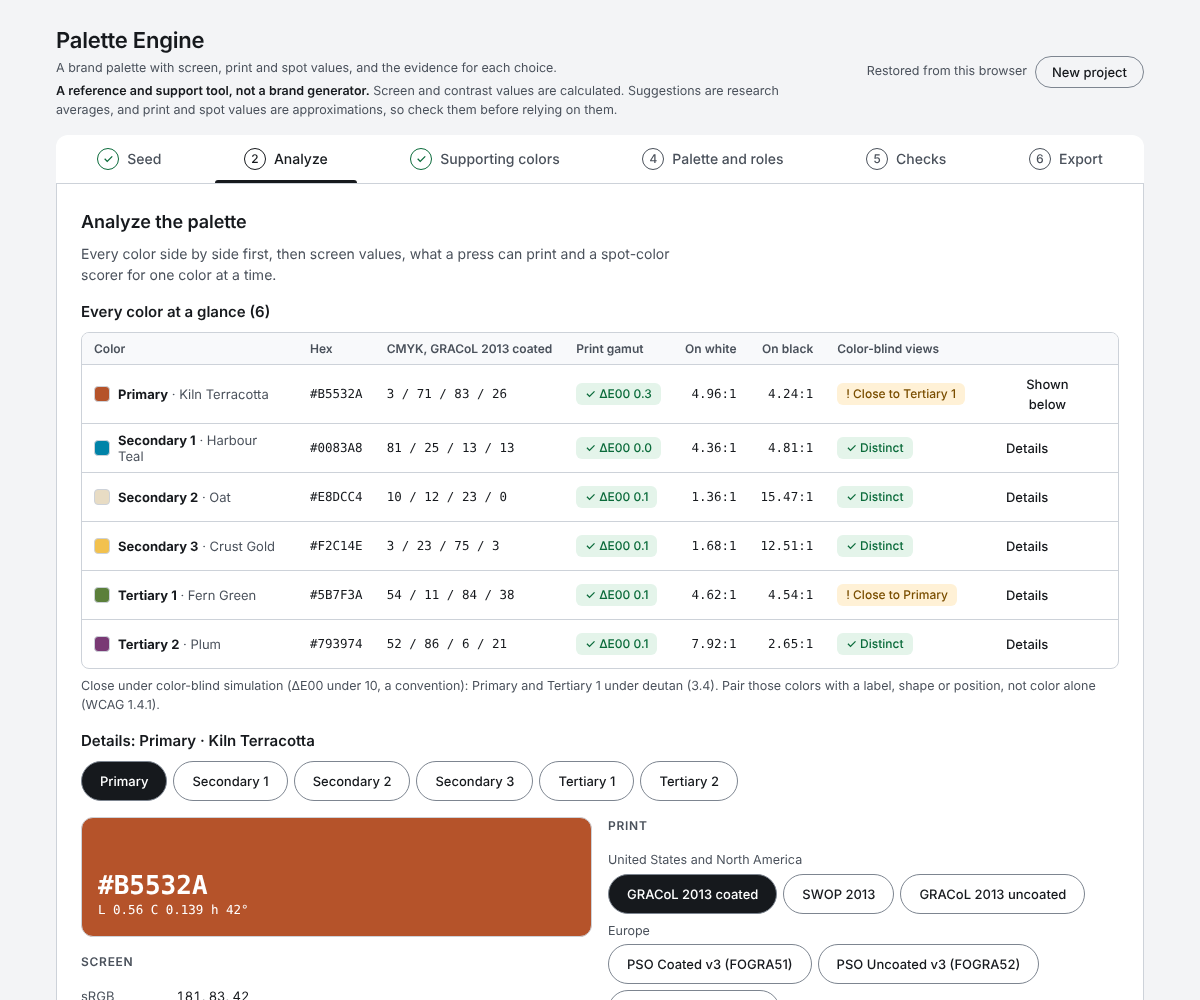
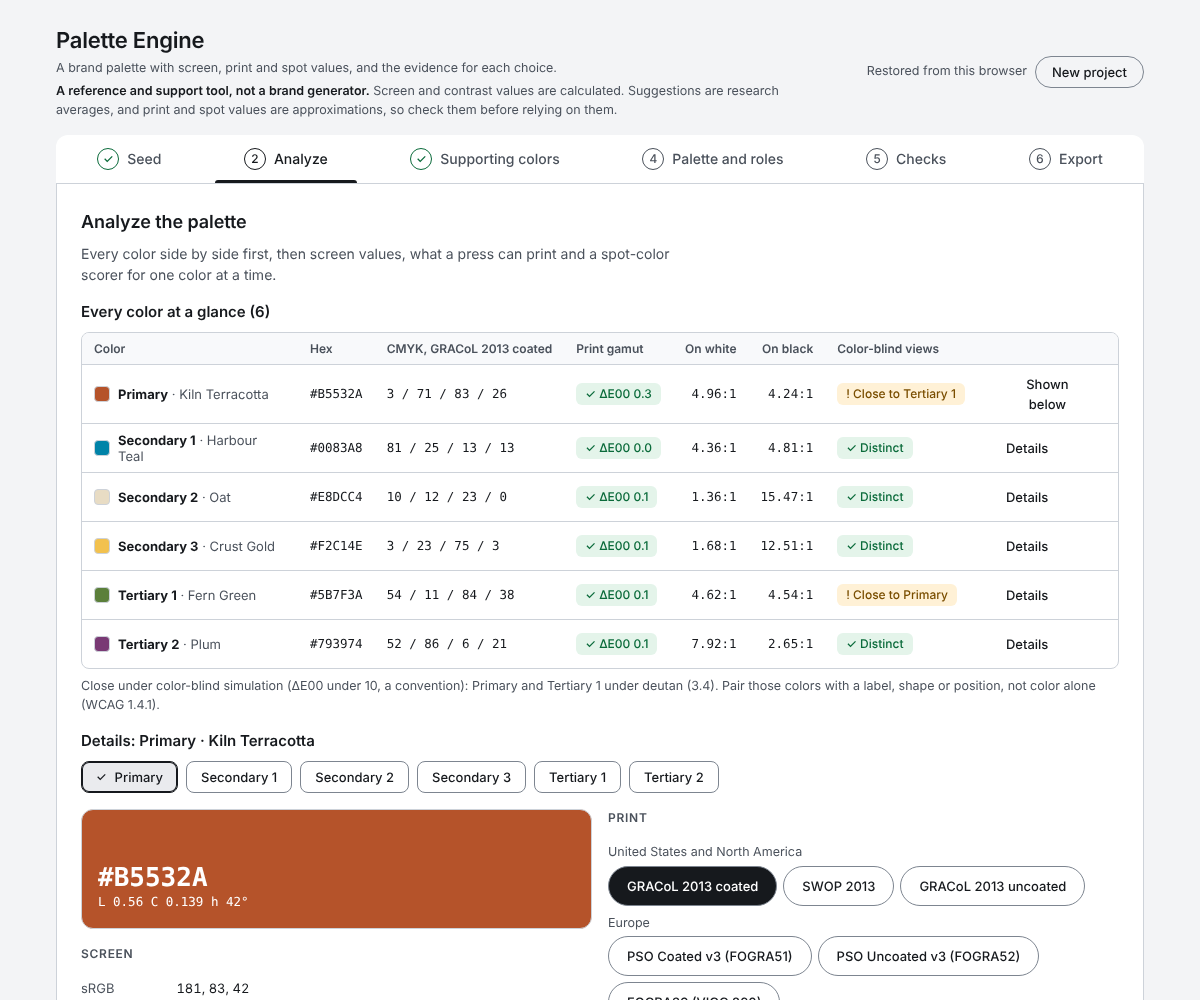
Choice controls follow m3.material.io: chips past five, radio lists for single choices (pe-update63)
- Analyze: the color switcher (up to seven colors) is a single-select
  chip set; Material segmented buttons hold 2 to 5 options.
- Supporting colors: Lens and Send picks to are stacked radio lists, so
  Show only is the step's one chip set (Material: one chip-set behavior
  per page). Lens has six options, a chosen deviation from "five or fewer".
- Focus returns to the chosen radio or chip after the page redraws.
- C47 closed after the live check; C48 to C50 opened.
- Tests: end to end 124 checks; engine and export-UI suites pass.

Claude-Session: https://claude.ai/code/session_01731oeFpYHKAPBZQTLZHEbz

Changed region(s): [[0.0617, 0.744, 0.8942, 1.0]]

diff --git a/web/app.js b/web/app.js
@@ -120,8 +120,21 @@ function fixLine(acc) {
 function segmented(options, current, onPick, label, cls) {
   return h('div', { class: cls ? `seg ${cls}` : 'seg', role: 'group', 'aria-label': label }, options.map((o) => h('button', { type: 'button', 'aria-pressed': String(o.id === current), onclick: () => onPick(o.id) }, o.label)));
 }
-function chip(label, pressed, onclick, extra) {
-  return h('button', { type: 'button', class: 'chip', 'aria-pressed': String(!!pressed), onclick }, h('span', { class: 'tick', 'aria-hidden': 'true' }, '✓'), label, extra);
+function chip(label, pressed, onclick, extra, id) {
+  return h('button', { type: 'button', class: 'chip', id, 'aria-pressed': String(!!pressed), onclick }, h('span', { class: 'tick', 'aria-hidden': 'true' }, '✓'), label, extra);
+}
+/**
+ * A stacked radio list (Material 3 radio buttons: listed vertically, one option always selected, the label selects too).
+ * Used where one choice is made from a visible set, so that each page's chip sets stay all multi-select (Material 3 chips:
+ * do not mix single- and multi-select chip sets on one page). The page re-renders on change, so focus is put back on the
+ * chosen option and arrow keys keep moving through the group.
+ */
+function radioList(name, legend, options, current, onPick, note) {
+  return h('fieldset', { class: 'radios' }, h('legend', null, legend),
+    options.map((o) => h('label', { class: 'radio', for: `${name}-${o.id}` },
+      h('input', { type: 'radio', id: `${name}-${o.id}`, name, value: o.id, checked: o.id === current, onchange: () => { onPick(o.id); const el = document.getElementById(`${name}-${o.id}`); if (el) el.focus(); } }),
+      h('span', { class: 'rl' }, o.label, o.extra ? h('span', { class: 'small muted' }, ` ${o.extra}`) : null))),
+    note || null);
 }
 function toggleSwitch(label, on, onchange, disabled) {
   return h('button', { type: 'button', class: 'switch', role: 'switch', 'aria-checked': String(!!on), disabled: !!disabled, onclick: () => onchange(!on) }, h('span', { class: 'track' }, h('span', { class: 'handle' })), label);
@@ -374,7 +387,8 @@ function renderAnalyze() {
       h('p', { class: 'lead' }, many ? 'Every color side by side first, then screen values, what a press can print and a spot-color scorer for one color at a time.' : 'Screen values, what a press can print, and a scorer for spot colors you already have values for.')),
     many && analyzeOverview(list),
     many && h('div', { class: 'stack-s' }, h('h3', { id: 'detail-title', tabindex: '-1' }, `Details: ${cur.label}${cur.rec.name ? ` · ${cur.rec.name}` : ''}`),
-      segmented(list.map((x) => ({ id: x.id, label: x.label })), cur.id, (id) => { S.focus = id; commit(); }, 'Color to analyze', 'seg-wrap')),
+      // Up to seven colors: Material 3 segmented buttons hold 2 to 5 options, so this is a single-select chip set (the only chip set on this step).
+      h('div', { class: 'chips', role: 'group', 'aria-label': 'Color to analyze' }, list.map((x) => chip(x.label, x.id === cur.id, () => { S.focus = x.id; commit(); const b = $(`#focus-${x.id}`); if (b) b.focus(); }, null, `focus-${x.id}`)))),
     h('div', { class: 'grid cols-2' },
       h('div', { class: 'stack' },
         h('div', { class: 'big-sw', style: `background:${a.screen.hex};color:${inkOn(a.screen.hex)}` }, h('span', { class: 'hex' }, a.screen.hex.toUpperCase()), h('span', { class: 'mono small' }, okText(a.screen.oklch))),
@@ -481,12 +495,11 @@ function targetPicker() {
   const opts = [];
   for (const tier of PE.SUPPORT_TIERS) {
     const list = tierList(tier);
-    list.forEach((r, i) => opts.push({ tier, i, text: `${slotLabel(tier, i)} · ${r.hex.toUpperCase()}`, locked: r.locked }));
-    if (list.length < MAX_TIER) opts.push({ tier, i: list.length, text: `${slotLabel(tier, list.length)} · ${list.length ? 'new' : 'empty'}` });
+    list.forEach((r, i) => opts.push({ id: PE.slotId(tier, i), label: slotLabel(tier, i), extra: `· ${r.hex.toUpperCase()}${r.locked ? ' · locked' : ''}` }));
+    if (list.length < MAX_TIER) opts.push({ id: PE.slotId(tier, list.length), label: slotLabel(tier, list.length), extra: `· ${list.length ? 'new' : 'empty'}` });
   }
   const t = targetOf();
-  return h('div', { class: 'stack-s' }, h('h4', { id: 'target-label' }, 'Send picks to'),
-    h('div', { class: 'chips', role: 'group', 'aria-labelledby': 'target-label' }, opts.map((o) => chip(o.text, o.tier === t.tier && o.i === t.i, () => { setTarget(o.tier, o.i); commit(); }, o.locked ? h('span', { class: 'small muted' }, ' · locked') : null))),
+  return radioList('target', 'Send picks to', opts, t.id, (id) => { const m = /^(secondary|tertiary)([23])?$/.exec(id); setTarget(m[1], m[2] ? Number(m[2]) - 1 : 0); commit(); },
     h('p', { class: 'small muted' }, t.rec ? `A pick replaces ${t.label} (${t.rec.hex.toUpperCase()}).` : `A pick fills ${t.label}.`));
 }
 function renderSupport() {
@@ -501,13 +514,14 @@ function renderSupport() {
       h('p', { class: 'lead' }, 'Each lens proposes colors from a rule, with its evidence on the card; the evidence is weak for classical wheel geometry. Treat the lenses as a starting vocabulary.'),
       h('p', { class: 'small muted' }, `Up to ${MAX_TIER} secondary and ${MAX_TIER} tertiary colors. Secondary 1 and Tertiary 1 set Material's secondary and tertiary roles; the others become extended colors, each with its own color, on-color, container and on-container roles.`)),
     h('div', { class: 'grid cols-2' }, PE.SUPPORT_TIERS.map((tier) => tierColumn(tier))),
-    h('div', { class: 'stack-s' }, h('h4', null, 'Lens'),
-      h('div', { class: 'chips' }, lensKeys.map((k) => chip(PE.LENSES[k].name, S.lens === k, () => { S.lens = k; commit(); }, h('span', { class: 'small muted' }, `· ${PE.LENSES[k].tier === 'low confidence' ? 'low confidence' : 'supported but contested'}`)))),
+    h('div', { class: 'grid cols-2' },
+      h('div', { class: 'stack-s' },
+      radioList('lens', 'Lens', lensKeys.map((k) => ({ id: k, label: PE.LENSES[k].name, extra: `· ${PE.LENSES[k].tier === 'low confidence' ? 'low confidence' : 'supported but contested'}` })), S.lens in PE.LENSES ? S.lens : 'complementary', (k) => { S.lens = k; commit(); }),
       notice('', h('b', null, `${lens.name}: `), PE.TIER_NOTE[lens.tier], ` Hue offsets are computed on the ${PE.WHEEL}; an artist's RYB wheel or an RGB wheel gives different complements for the same color.`),
       h('div', { class: 'row' }, h('div', { style: 'width:min(100%,320px)' }, field('offsets', 'Hue offsets in degrees (editable)', (off || lens.offsets).join(', '), { compact: true, mono: true,
         onchange: (v) => { const n = v.split(/[\s,;]+/).filter(Boolean).map(Number); if (n.length && n.every((x) => Number.isFinite(x) && Math.abs(x) <= 360)) { S.offsets[S.lens] = n; } commit(); } })),
         off && h('button', { type: 'button', class: 'btn text', onclick: () => { delete S.offsets[S.lens]; commit(); } }, 'Reset offsets'))),
-    targetPicker(),
+      targetPicker()),
     filterBar(true), filteredGrid(cands, true, (c) => harmonyCard(c)));
 }
 function harmonyCard(c) {

diff --git a/web/style.css b/web/style.css
@@ -218,3 +218,14 @@ fieldset.pal-tier legend { padding: 0 6px; font: 600 14px/20px var(--font); colo
 td .pill { white-space: nowrap; }
 .role .m .mono { overflow-wrap: anywhere; }
 .cvd-list { margin: 0; padding-left: 18px; display: grid; gap: 4px; }
+
+/* Stacked radio lists (Material 3 radio button specs: 20dp icon, 40dp state layer, 48dp target; listed vertically) */
+fieldset.radios { border: 0; margin: 0; padding: 0; min-width: 0; display: grid; gap: 0; align-content: start; }
+fieldset.radios legend { padding: 0 0 4px; font-size: 12px; letter-spacing: 0.06em; text-transform: uppercase; color: var(--ink-2); font-weight: 600; }
+.radio { position: relative; display: flex; align-items: center; gap: 12px; min-height: 48px; padding: 0 8px 0 4px; border-radius: 8px; cursor: pointer; }
+.radio input { flex: none; width: 20px; height: 20px; margin: 0 10px; accent-color: var(--ink); cursor: pointer; }
+.radio::before { content: ""; position: absolute; left: 4px; top: 50%; width: 40px; height: 40px; margin-top: -20px; border-radius: 50%; background: var(--ink); opacity: 0; pointer-events: none; }
+.radio:hover::before { opacity: .08; } .radio:active::before { opacity: .12; }
+.radio input:focus-visible { outline: 3px solid var(--focus); outline-offset: 3px; }
+.radio:has(input:focus-visible)::before { opacity: .10; }
+.radio .rl { line-height: 20px; }

diff --git a/TO-CONFIRM.md b/TO-CONFIRM.md
@@ -1,9 +1,9 @@
-> Repo copy as of pe-update62 (2026-11-17: up to three secondary and three tertiary colors, D44; sRGB tolerance fix, D45). The repo is authoritative; this copy goes stale until refreshed after the next update.
+> Repo copy as of pe-update63 (2026-11-17: choice controls checked against m3.material.io; pe-update62, the extended palette, is committed as 0ea220f). The repo is authoritative; this copy goes stale until refreshed after the next update.
 
 # To confirm or fix
 
 The single list of things in this project that are **unverified, unresolved or known to be wrong**. If a claim elsewhere in the repo is not backed up,
-it belongs here. Last updated 2026-11-17 (pe-update62: extended palette, D44 and D45; C45 and C46 closed, C47 opened).
+it belongs here. Last updated 2026-11-17 (pe-update63: C47 closed after Kwade's live check and the m3.material.io reading; C48 to C50 opened).
 
 Types: **Confirm** (a fact or behavior to check), **Fix** (something known to be wrong or missing), **Decide** (a choice only the maintainer can make).
 Status: **Open**, **Deferred** (blocked on something the maintainer does not have yet), or **Done** (kept for the record).
@@ -26,12 +26,15 @@ Status: **Open**, **Deferred** (blocked on something the maintainer does not hav
 | C20 | Confirm | The heading key (H) did not move to headings in NVDA while the landmark key (D) did | Open | Session report: H did not work on the artifact; on pages without headings NVDA gave its "no next heading" message, so the key itself works. Code check: the header has an h1 and every step has an h2 title with h3 and h4 sections, so headings exist. Cause not known (NVDA mode, how the artifact is framed, or the page). To close: repeat on the live page with the Speech Viewer on, open NVDA+F7 (Elements list, Headings), and note the step and the mode. If the list is empty it is a page problem; if not, a test-setup one. Re-test script, with the NVDA mode check and the Elements list: `docs/screen-reader-session.md` (2026-10-03). First thing to rule out: NVDA in focus mode, where H is not a navigation key (low confidence; not observed) |
 | C21 | Decide | Reading load and reading order | Open, first pass made 2026-10-03 | Session report: a lot of copy has to be read in each step, and navigation sometimes followed columns rather than rows, so the order could seem off; overall, everything reported worked. To close: decide whether to shorten the help text or fold some of it away, and check that two-column cards read in a sensible order; re-test. First pass 2026-10-03 (pe-update22): 14 help passages shortened, about 22% fewer words in them (472 to 366). One sentence was dropped outright ("its equations were checked against the paper", on the harmony score); the print-approximation note stays in the footer and the APCA note in Checks. Reading order (columns before rows) not changed. To close: Kwade judges whether it is short enough, and the reading order is re-tested |
 | C38 | Decide | UI/UX pass: title shifts, folding away extra text | Open | Kwade's request 2026-10-13. Overlaps C21 (reading load and reading order) and C19 (step navigation), so settle all three together. Back each change against the rules pack and Material 3 mechanics (cite the specific guidance; flag deviations). Keep D34 and D35 untouched. After any change to `web/app.js`: run `test:web`, the export UI suite and CI, then republish or redeploy. Kwade will take this in a separate session on 2026-10-14 or later, possibly with annotated screenshots or handmade versions to work from (scope not yet given). Decision 221 (first recorded as 166; Seed-step open) and the apca-w3 line on the Checks step are the only UI text changes since pe-update51 Added 2026-10-14: pe-update59 put a two-line scope note under the subtitle (C44, decision 222, first recorded as 167), so the pass should count it as part of the top-of-page reading load. |
-| C47 | Confirm | **Extended palette (D44) on the live page, and the Material 3 points not checked live** | Open | Built and tested in the sandbox (Chromium only): engine and export suites, 118 end-to-end checks (44 new) and 61 export-UI checks. An independent Opus review found no crash or validation hole and seven smaller defects, all fixed and tested before packaging (overrides and accepted notes now follow the color when slots move or are removed; a replaced palette drops them; locks are checked inside the replace action and a color cannot be removed while a locked color below it would move up; over-long palette-entry text is cut with a warning instead of making saved work unreadable; stale field errors are cleared). To close: (1) Kwade tries the live page with a real brand palette of five to seven colors, both by entering it on the Seed step ("I have a palette") and by building it from lenses, and says whether three per tier is right; (2) a screen-reader pass over the new controls (the "Send picks to" chips, the Analyze color switcher, Move up and Remove announcements) joins C18 to C21; (3) m3.material.io could not be fetched from the build session, so these were not re-checked against the current spec: the Analyze switcher reuses the segmented buttons with up to seven options in a wrapping row (Material's segmented buttons are meant for a few options; the wrap is a deliberate deviation, to be checked), and "Send picks to" is a single-select chip set, as the existing Lens chips are (Material suggests segmented buttons or single-select filter chips for one choice). New controls reuse the existing buttons, chips and switches, so the 48 px hit areas and focus rings are unchanged. (4) The ASE with extended tones is not checked in Adobe (C7). (5) Known, older and left as it is: the single "I have a color" field accepts words the color parser reads as shorthand hex ("bad" becomes #BBAADD, "cafe" #CCAAFFEE). The new palette entry only accepts explicit color syntax, so a name there is never read as a color; decide whether the single field should follow. |
+| C48 | Decide | **The single "I have a color" field reads some words as shorthand hex** | Open | Found 2026-11-17 while testing pe-update62: the color parser takes "bad" as #BBAADD and "cafe" as #CCAAFFEE, so a word typed into the single color field becomes a color with no warning. The palette-entry tab only accepts explicit color syntax (a # hex, a bare six-digit hex with a digit, or a CSS color function). Choose: make the single field follow the same rule (CSS color names such as "teal" would then need a #, or could be kept as an allowed list), or leave it. |
+| C49 | Confirm | Screen-reader pass on the controls added in pe-update62 and 63 | Open | The palette-entry tab and its errors, the Analyze overview table and color chips, the two radio lists (Lens, Send picks to), Add, Move up and Remove with their announcements, the harmonize switch. Keyboard behavior is tested in Chromium (arrow keys move the radios and focus stays on the chosen one after the page redraws; 3px focus ring; 48px rows). Do it with C18 to C21. |
+| C50 | Fix | Record two UI/UX decisions in the rules pack | Open | For the master rules-pack repo (next numbers after 225, Kwade's to assign): (a) the Analyze color switcher is a single-select chip set because it can hold up to seven options and Material 3 segmented buttons hold 2 to 5; (b) single choices among visible options (Lens, Send picks to) are stacked radio lists, so each step's chip sets are all one kind, with Lens at six options as a chosen deviation from "five or fewer" (Kwade, 2026-11-17). Source and wording in `docs/04-architecture.md`, "Interface mechanics". Then regenerate the palette checklist. |
 
 ## Done (kept for the record)
 
 | ID | Item | Closed | Note |
 | --- | --- | --- | --- |
+| C47 | Extended palette (D44) on the live page, and the Material 3 points not checked live | 2026-11-17 | Kwade applied pe-update62 (0ea220f), CI ran clean, and he tried the live page: everything worked and made sense. The two Material 3 points were then read on m3.material.io in the Claude app's browser and fixed in pe-update63 (chips for the Analyze switcher; stacked radio lists for Lens and Send picks to). What was left moved to C48 (the single color field), C49 (screen reader) and C50 (rules pack); the ASE stays under C7. |
 | C45 | Room for a fuller brand palette (more secondary and tertiary colors) | 2026-11-17 | Kwade's request 2026-11-17: more slots for secondary and tertiary colors, so a whole brand palette can be analyzed and reviewed together, generated or taken from existing assets, with the count set by research. Built in pe-update62 as D44 (see `docs/03`, "How many supporting colors"): up to three of each; Secondary 1 and Tertiary 1 keep the core roles, the rest are Material 3 extended colors with four roles each; harmonize off and offered per color; a third Seed tab for entering a whole palette; an overview on Analyze; project file version 2 with version 1 migrated on load. Older projects export byte-identically (Fernhill checked). What is still to confirm is C47. |
 | C46 | Ordinary hex colors flagged "P3 only" | 2026-11-17 | Found while building C45: #0083A8 (Fernhill's own secondary) showed a Beyond sRGB warning when typed in, because its OKLCH round trip gives a red channel of −1.3e-14. 681 of 4,096 hex colors on a 16-step grid were affected. Fixed in pe-update62 (D45) with a 1e-6 tolerance per channel; now 0 of 4,096, and wide-gamut colors are still flagged. Earlier saved projects keep whatever flag they were saved with. |
 | C44 | The page header did not say what the tool is and is not | 2026-10-14 | Kwade's request 2026-10-14: a concise note in the title area framing the tool as a reference and support aid, with what it can and cannot stand behind, so it is not read as absolute truth or as a "make my brand for me" tool. Shipped in pe-update59 (committed and pushed by Kwade): under the subtitle, "A reference and support tool, not a brand generator. Screen and contrast values are calculated. Suggestions are research averages, and print and spot values are approximations, so check them before relying on them." Recorded as UI/UX decision 222, first recorded as 167 (profile choice, rules FC1, FY3, ST14; text only, so no M3 component applies). One end-to-end check on the note; the every-step contrast check covers it in light and dark. The six step screenshots were retaken. Related, not done: Kwade also asked about a wheel-style color picker (as in Affinity); the page uses the browser's own color input, so the dialog is the operating system's and was left as it is for now. |

diff --git a/engine/HANDOFF.md b/engine/HANDOFF.md
@@ -86,7 +86,7 @@ The PDF and zip tests need `poppler-utils` (pdftotext, pdftoppm), `qpdf` and `un
   (half the study's beta), 0.05 OKLab minimum gap between variants (TO-CONFIRM C10).
 - **Material 3 mechanics used:** 48px touch targets, 40px buttons (24px side padding), 32px chips, 48px tabs with a 3px indicator, 52 by 32px switch, state layers
   8% hover, 10% focus, 10% pressed (12% on chips, switches and tabs), 3px focus ring with 2px offset, disabled 38%. Source: Material Web 2.5.0 tokens (Apache-2.0);
-  m3.material.io itself could not be read by the tools used. Intentional deviations: field labels sit above the field instead of floating inside the outline; the tab
+  m3.material.io could not be read by the tools used until 2026-11-17, when the choice-control guidance was read in the Claude app's browser (pe-update63; see docs/04, "Interface mechanics": chips past five options, one chip-set behavior per page, stacked radio lists with Lens at six options as a chosen deviation). Intentional deviations: field labels sit above the field instead of floating inside the outline; the tab
   bar is used as a wizard stepper with a done mark; the visual design is not Material's.
 - **State** is saved in browser storage (flushed on `pagehide` and when the page is hidden) and in a project file (saved from the Export step; opened from the Seed or Export step).
 - **ASE:** structure checked by three independent readers (engine `parseAse`, the `ase-util` package, a Python struct reader) plus a third-party sample, but never in
@@ -118,7 +118,9 @@ Start a new session for this. Read `TO-CONFIRM.md` first.
 
 ## Starting a new session
 
-**State on 2026-11-17 (pe-update62, built and tested in the sandbox, waiting for Kwade to apply and push):** up to three secondary and three tertiary colors (D44): Secondary 2–3 and Tertiary 2–3 are Material 3 extended colors with four roles each, built through the same scheme path as Secondary 1 / Tertiary 1 (`extendedOf` in `engine/palette.js`); harmonize is opt-in per extended color and changes roles only; the Seed step has a third tab, "I have a palette"; Analyze shows every color at a glance; project files are version 2 (`engine/project.js`: `supportSlots`, `supportingForPalette`, `slotId`), and version 1 files and browser storage are migrated on load. Also the sRGB tolerance fix (D45). Older projects export byte-identically. Open: C47 (live check by Kwade, screen reader, Material 3 points not re-checked live).
+**State on 2026-11-17 (pe-update63):** pe-update62 is committed (0ea220f, CI green) and Kwade checked it on the live page. pe-update63 brings the choice controls in line with m3.material.io (read in the Claude app's browser): the Analyze color switcher is a single-select chip set (more than five options), and Lens and Send picks to are stacked radio lists, so each step's chip sets are all one kind. Open from these two updates: C48 (the single color field reads words as shorthand hex), C49 (screen-reader pass on the new controls), C50 (record the two UI/UX decisions in the rules pack).
+
+**Earlier, pe-update62:** up to three secondary and three tertiary colors (D44): Secondary 2–3 and Tertiary 2–3 are Material 3 extended colors with four roles each, built through the same scheme path as Secondary 1 / Tertiary 1 (`extendedOf` in `engine/palette.js`); harmonize is opt-in per extended color and changes roles only; the Seed step has a third tab, "I have a palette"; Analyze shows every color at a glance; project files are version 2 (`engine/project.js`: `supportSlots`, `supportingForPalette`, `slotId`), and version 1 files and browser storage are migrated on load. Also the sRGB tolerance fix (D45). Older projects export byte-identically. Open: C47 (live check by Kwade, screen reader, Material 3 points not re-checked live).
 
 **State on 2026-10-14 (pe-update60): everything through pe-update59 is committed and green in the public repository, and the page is live on GitHub Pages. The paragraph below is older and records how it got here (it is from 2026-10-13, pe-update51).** Everything through pe-update49 is committed and the GitHub Actions run ("engine-and-browser") is green. The FOGRA39 file's ink limit is 260% (D43) and the "cool" weights are cyan 0.83, blue 0.80, purple 0.55, neutral 0.38, green 0.35 (D40 to D42). The live page is version 14. `engine/test_sheet.mjs` runs only in CI, so after any change to the PDF text, read the CI run too. The Build Spec Doc in the claude.ai Project carries dated notes for these changes. **Older state (pe-update44).** The tool has six print conditions in two regions (D38). North America: GRACoL 2013 coated (default), SWOP 2013, GRACoL 2013 uncoated. Europe: PSO Coated v3 (FOGRA51), PSO Uncoated v3 (FOGRA52) and a FOGRA39 file ("Coated FOGRA39L (VIGC 260)", from the ICC Profile Registry, provider VIGC; C23 closed 2026-10-13). pe-update38 added one script (`build/measure_cmyk_rounding.py`) and pe-update39 and 40 are docs only (C25: Xin et al. 2004 read; C22: ECI answered that derived tables need no permission while its profiles are not distributed). pe-update41 changes the page footer text (the FOGRA39 file's registry notice and a credit to ECI, C30) and adds one end-to-end check, so the end-to-end suite should now report 72 checks; the test state below describes the tree before pe-update41 and 42; see the sentences after this one for what was observed after them. It also records the C25 decision (D40: grays may rank as cool). pe-update42 makes that change (C33): the "cool" row gains a neutral weight of 0.38 in both lexicon files, `engine/matcher.js` treats neutral points as true grays (D41) and compares the minimum seed gap with a tolerance, and `engine/test_matcher.mjs` has four more checks. Kwade ran `test_matcher.mjs` and `build/test_lexicon.py` (ALL PASS) and reported that the rest of the suites passed too; he committed and pushed pe-update42 (C30 and C33 closed in pe-update43). `test_sheet.mjs` still cannot run on his machine (no qpdf), and the end-to-end count (72 expected) was not reported in numbers. The script measured the share of rounded CMYK identical to direct conversion for all six tables (C32, done): 84.81 / 83.91 / 81.94% for the US three (as in Phase 1) and 81.25 / 77.05 / 83.18% for PSO Coated v3, PSO Uncoated v3 and the FOGRA39 file. On 2026-10-13, on Windows after the C27 footer change, every engine suite passed except `test_sheet.mjs` (it needs poppler-utils and qpdf, which that machine lacks), the export UI suite passed 43 checks, the end-to-end suite 71 (it was 69 before the footer change), and `python build/test_lexicon.py` passed. CI then showed a green check (Kwade, 2026-10-13; the commit and log were not looked at). The earlier record of 595 checks, 70 of them in the browser (pe-update33), does not describe the repo: its source had no pe-update33 footer sentence or check until commit 6ecc425. The overall total has not been recomputed. Work is delivered as `pe-updateNN.zip` packages (changed files only) with a summary file and a commit message; Kwade applies and commits them from his own tree, and the working copy here never pushes.
 
@@ -132,7 +134,7 @@ Start a new session for this. Read `TO-CONFIRM.md` first.
 | A screen-reader session | C18, C20 (re-test), then C19 (step navigation), then C21 (reading load). |
 | Equipment Kwade does not have | C6 (Pantone guide), C7 and C8 (Adobe). |
 | Kwade's judgment, deferred on purpose | C10 (seed quality on the live page), C15 (the near-synonym chip, not yet seen by him), C13 (stays open). |
-| Kwade, to do next | Apply and push pe-update62 (D44, D45), let CI run, then try the live page with a real five-to-seven-color palette (C47). The UI/UX pass (C38) is still waiting for his scope, and should now include the new controls. |
+| Kwade, to do next | Apply and push pe-update63, let CI run. Then C50 (the two UI/UX decisions into the rules pack) and C48 (a decision). The UI/UX pass (C38) is still waiting for his scope. |
 
 **Decisions that need Kwade before anything changes:** the matcher tie-break and the color-word bands (D34, D35) are not changed without asking. Brand data comes from published sources only. No researcher or contact email addresses go in the repo.
 

diff --git a/docs/phase-log.md b/docs/phase-log.md
@@ -171,3 +171,7 @@ The rules pack's decisions log and the palette lineage of that log forked at 165
 ## 2026-11-17: Up to three secondary and three tertiary colors; sRGB tolerance (C45, C46, D44, D45; pe-update62)
 
 Kwade asked for more room for secondary and tertiary colors, so a whole brand palette can be analyzed and reviewed together, whether the tool generates it or it comes from existing assets, with the count set by research. The research (practitioner guides, low confidence; Healey 1996, supported but contested) is in `docs/03`, "How many supporting colors". Kwade chose the four recommended options: up to three of each, Material 3 extended colors for the extra ones, a third Seed tab for entering a whole palette, and harmonize off by default and offered per color (D44). Engine: `buildPalette` takes extended colors and builds their roles through the same scheme path as Secondary 1 / Tertiary 1, so the tones are identical (tested); the checks, fixes and color-blind views include them, and a new check compares the brand colors as entered. Page: the palette-entry tab ("Name #hex" per field, errors on the field, asks before replacing work), the Analyze overview and color switcher, the Supporting step with tiers of three, "Send picks to", Move up, Remove and the harmonize switch, extended role groups on Palette and roles, and grouped color-blind notes on Checks. Exports carry the extended colors everywhere; the PDF gets a page of extended roles and a two-row swatch strip past four colors. Project file version 2; version 1 files and browser storage open unchanged with a note (`engine/fixtures/project_v1_fernhill.json` keeps the old Fernhill file as the test). The Fernhill example's tokens, DTCG, CSS, Markdown, ASE and PDF did not change; its project file is now version 2. While building it, an ordinary hex color (#0083A8) showed a "Beyond sRGB" warning: the OKLCH round trip leaves channels like −1.3e-14, and about 1 in 6 hex colors was flagged. Fixed with a 1e-6 tolerance (D45, C46). An independent Opus review found no crash or validation hole and seven smaller defects, all fixed before packaging: overrides and accepted notes follow the color when slots move or are removed (and are dropped with a removed or replaced color), locks are checked inside the replace action, a color cannot be removed while a locked color below would move up, the pick target and Analyze focus follow the color, over-long palette-entry text is cut with a warning, and stale field errors are cleared. A test also showed the color parser reads words like "bad" as shorthand hex, so palette entry accepts only explicit color syntax (C47 records the older single field). Tests: all engine suites pass; end to end 118 checks (was 74), export UI 61. Screenshots retaken for Seed and Supporting colors, and one added for the palette overview. Open: C47.
+
+## 2026-11-17: Choice controls checked against m3.material.io (C47; pe-update63)
+
+Kwade committed pe-update62 as 0ea220f, CI ran clean, and he tried the live page; it worked and made sense. m3.material.io, which the build sandbox could not reach, was read in the Claude app's browser instead. Segmented buttons hold 2 to 5 options and Material suggests chips past five, so the Analyze color switcher (up to seven colors) became a single-select chip set, the only chip set on that step. Material also says all chip sets on a page should be single-select or all multi-select, and the Supporting step had two single-select sets (Lens, and the new Send picks to) beside the multi-select Show only filters. Kwade chose stacked radio lists for both single choices; the radio guidance (vertical, one always selected, 20dp icon, 40dp state layer, 48dp target) is followed, with one chosen deviation: six options where Material recommends five or fewer, so every lens and its evidence tag stays visible. An earlier offer of radios "in a wrapping row" was withdrawn once the guidance against horizontal radio lists was read. Focus is put back on the chosen radio or chip after the page redraws, so arrow keys keep working. Tests: end to end 124 checks (six new); engine and export-UI suites unchanged and passing. Opened: C48, C49, C50.

diff --git a/docs/04-architecture.md b/docs/04-architecture.md
@@ -54,13 +54,14 @@
 | --- | --- |
 | Seed | Color entry, descriptor words and seed candidates, or a whole existing palette (up to seven colors) |
 | Analyze | Every color at a glance when there is more than one; screen values, print per profile with gamut flags, the spot scorer for the chosen color |
-| Supporting colors | Harmony lenses, filters, up to three secondary and three tertiary slots, where picks go, harmonize per extended color |
+| Supporting colors | Harmony lenses (a radio list), filters, up to three secondary and three tertiary slots, where picks go (a radio list), harmonize per extended color |
 | Palette and roles | Light and dark roles, overrides, role-pair table with fixes and accepted-failure notes |
 | Checks | WCAG summary, color-blind views, APCA, print legibility, color origins |
 | Export | Seven outputs, "download all", project file save and open |
 
 Interface mechanics follow Material Design 3 (values taken from the Material Web 2.5.0 tokens): 48px touch targets, 40px buttons, 32px chips, 48px tabs with a 3px
 indicator, a 52×32 switch, state layers 8% hover and 10% focus and pressed (12% on chips, switches and tabs), a 3px focus ring with a 2px offset, 38% for disabled.
+Choice controls follow the m3.material.io guidelines, read in the Claude app's browser on 2026-11-17: segmented buttons hold 2 to 5 options and, past five, chips are the suggested control; a single-select chip set is an alternative to segmented buttons, but all chip sets on one page should be either single-select or multi-select; radio buttons are listed vertically, one option always selected, with a 20dp icon, 40dp state layer and 48dp target, recommended for five or fewer options. So the Analyze color switcher (up to seven colors) is a single-select chip set, the only chip set on that step, and on Supporting colors the Lens and Send picks to choices are stacked radio lists, leaving Show only (multi-select) as that step's one chip set. One intentional deviation: Lens has six options and Send picks to can reach six, against the radio guidance of five or fewer; Kwade chose visible radio lists over dropdown menus (2026-11-17) so every lens and its evidence tag stays in view.
 Intentional deviations: field labels sit above the field instead of floating in the outline; the tab bar is used as a wizard stepper with a done mark; the visual
 design is Kwade's, not Material's.
 
